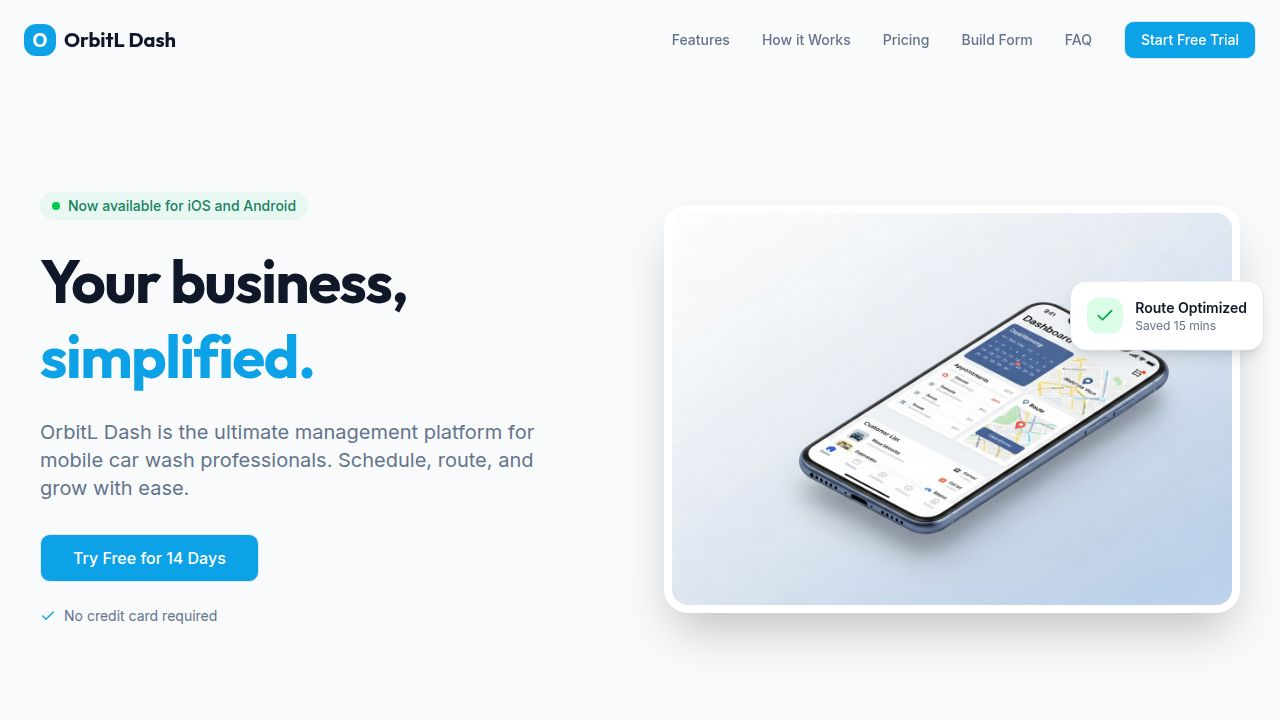
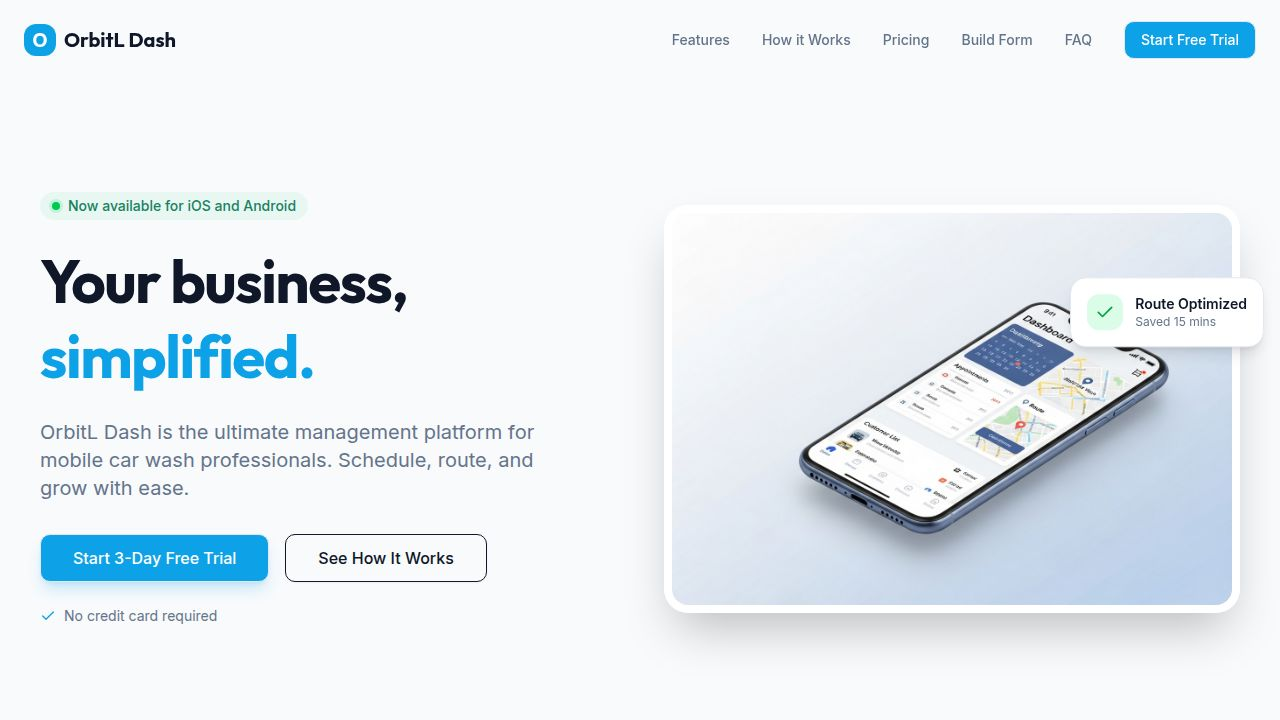
Update trial period and improve hero section for better user experience
Adjusts free trial duration to 3 days and enhances the hero section with a new CTA and smoother animations.

Replit-Commit-Author: Agent
Replit-Commit-Session-Id: 7ee4eef2-5127-4c0a-a80e-065976aa094d
Replit-Commit-Checkpoint-Type: full_checkpoint
Replit-Commit-Event-Id: 0aeec803-6f9e-4cba-8fb8-4a6f24e5bb79
Replit-Commit-Screenshot-Url: https://storage.googleapis.com/screenshot-production-us-central1/0069f2aa-7549-4a24-b9b8-5cf3a1515ba7/7ee4eef2-5127-4c0a-a80e-065976aa094d/kel06t1
Replit-Helium-Checkpoint-Created: true

Changed region(s): [[0.8438, 0.3667, 0.9688, 0.4889], [0.0312, 0.7333, 0.2188, 0.825], [0.25, 0.7639, 0.3438, 0.7944]]

diff --git a/client/src/pages/home.tsx b/client/src/pages/home.tsx
@@ -137,8 +137,11 @@ const Hero = () => {
               OrbitL Dash is the ultimate management platform for mobile car wash professionals. Schedule, route, and grow with ease.
             </p>
             <div className="flex flex-col sm:flex-row gap-4 w-full sm:w-auto mt-2">
-              <Button size="lg" className="h-12 px-8 text-base" data-testid="button-try-free">
-                Try Free for 14 Days
+              <Button size="lg" className="h-12 px-8 text-base shadow-lg shadow-primary/20 hover:scale-105 transition-transform" data-testid="button-try-free">
+                Start 3-Day Free Trial
+              </Button>
+              <Button variant="outline" size="lg" className="h-12 px-8 text-base" onClick={() => document.getElementById('how-it-works')?.scrollIntoView({ behavior: 'smooth' })}>
+                See How It Works
               </Button>
             </div>
             <p className="text-sm text-muted-foreground flex items-center gap-2">
@@ -413,7 +416,7 @@ const FAQ = () => {
     },
     {
       question: "Is there a setup fee?",
-      answer: "No setup fees. You get full access to all features during your 14-day free trial, and setup takes just a few minutes."
+      answer: "No setup fees. You get full access to all features during your 3-day free trial, and setup takes just a few minutes."
     },
     {
       question: "What devices does it work on?",
